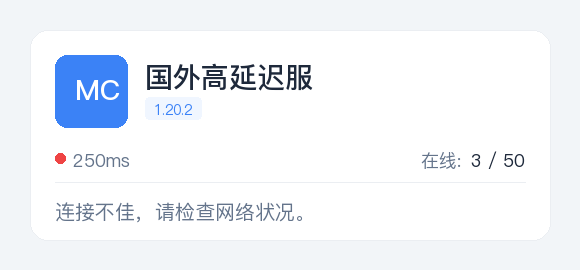
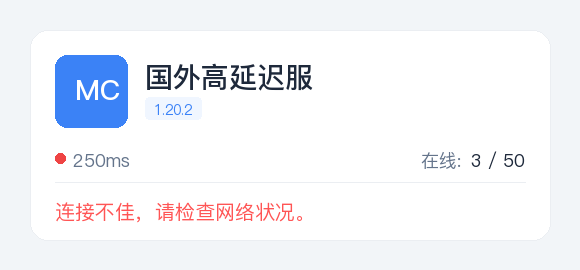
feat: 更新 MOTD 解析逻辑，支持颜色和样式，新增测试用例

Changed region(s): [[0.0931, 0.7407, 0.5276, 0.8296]]

diff --git a/script/get_img.py b/script/get_img.py
@@ -1,8 +1,109 @@
 from PIL import Image, ImageDraw, ImageFont
 import io
 import base64
-from typing import Optional, List
+from typing import Optional, List, Tuple
 from pathlib import Path
+import re
+
+# MOTD 颜色代码映射
+MOTD_COLORS = {
+    '0': (0, 0, 0),           # 黑色
+    '1': (0, 0, 170),         # 深蓝色
+    '2': (0, 170, 0),         # 深绿色
+    '3': (0, 170, 170),       # 深青色
+    '4': (170, 0, 0),         # 深红色
+    '5': (170, 0, 170),       # 紫色
+    '6': (255, 170, 0),       # 金色
+    '7': (170, 170, 170),     # 灰色
+    '8': (85, 85, 85),        # 深灰色
+    '9': (85, 85, 255),       # 蓝色
+    'a': (85, 255, 85),       # 绿色
+    'b': (85, 255, 255),      # 青色
+    'c': (255, 85, 85),       # 红色
+    'd': (255, 85, 255),      # 粉红色
+    'e': (255, 255, 85),      # 黄色
+    'f': (255, 255, 255),     # 白色
+}
+
+# MOTD 格式代码
+MOTD_FORMATS = {
+    'l': 'bold',      # 粗体
+    'o': 'italic',    # 斜体
+    'n': 'underline', # 下划线
+    'm': 'strikethrough', # 删除线
+    'k': 'obfuscated',    # 乱码
+}
+
+def parse_motd(motd: str) -> List[Tuple[str, Tuple[int, int, int], dict]]:
+    """
+    解析 MOTD 字符串，返回带有颜色和样式信息的片段列表
+    
+    Returns:
+        List of (text, color, styles) tuples
+    """
+    if not motd:
+        return [("", (100, 116, 139), {})]
+    
+    fragments = []
+    current_text = ""
+    current_color = (100, 116, 139)  # 默认灰色
+    current_styles = set()
+    
+    i = 0
+    while i < len(motd):
+        if motd[i] == '§' and i + 1 < len(motd):
+            # 保存当前文本
+            if current_text:
+                fragments.append((current_text, current_color, current_styles.copy()))
+                current_text = ""
+            
+            code = motd[i + 1].lower()
+            if code in MOTD_COLORS:
+                current_color = MOTD_COLORS[code]
+            elif code == 'r':
+                # 重置所有样式
+                current_color = (100, 116, 139)
+                current_styles = set()
+            elif code in MOTD_FORMATS:
+                current_styles.add(MOTD_FORMATS[code])
+            
+            i += 2
+        else:
+            current_text += motd[i]
+            i += 1
+    
+    # 保存最后一段文本
+    if current_text:
+        fragments.append((current_text, current_color, current_styles.copy()))
+    
+    return fragments if fragments else [("", (100, 116, 139), {})]
+
+def wrap_text_with_styles(text: str, font, max_width: int, draw: ImageDraw.Draw) -> List[Tuple[str, int, int]]:
+    """
+    根据像素宽度精确折行，返回 (文本, 起始x, 起始y) 列表
+    """
+    lines = []
+    paragraphs = text.split('\n')
+    
+    for paragraph in paragraphs:
+        if not paragraph:
+            lines.append(("", 0, 0))
+            continue
+        
+        current_line = ""
+        for char in paragraph:
+            test_line = current_line + char
+            if draw.textlength(test_line, font=font) <= max_width:
+                current_line = test_line
+            else:
+                if current_line:
+                    lines.append((current_line, 0, 0))
+                current_line = char
+        
+        if current_line:
+            lines.append((current_line, 0, 0))
+    
+    return lines
 
 async def load_font(font_size):
     """加载两种字体"""
@@ -18,28 +119,6 @@ async def _load_single_font(font_path: Path, font_size: int):
         return ImageFont.truetype(str(font_path), font_size)
     except:
         return ImageFont.load_default()
-
-def wrap_text(text: str, font, max_width: int, draw: ImageDraw.Draw) -> List[str]:
-    """根据像素宽度精确折行"""
-    lines = []
-    # 按照显式换行符先分割
-    paragraphs = text.split('\n')
-    for paragraph in paragraphs:
-        if not paragraph:
-            lines.append("")
-            continue
-        
-        current_line = ""
-        for char in paragraph:
-            test_line = current_line + char
-            # 获取当前行在指定字体下的像素长度
-            if draw.textlength(test_line, font=font) <= max_width:
-                current_line = test_line
-            else:
-                lines.append(current_line)
-                current_line = char
-        lines.append(current_line)
-    return lines
 
 async def fetch_icon(icon_base64: Optional[str] = None) -> Optional[Image.Image]:
     if not icon_base64: return None
@@ -71,35 +150,54 @@ async def generate_server_info_image(
     COLOR_WARN = (245, 158, 11)
     COLOR_DANGER = (239, 68, 68)
 
-    # 字体预加载（用于计算高度）- Bold用于标题，Medium用于其它
+    # 字体预加载 - Bold用于标题，Medium用于其它
     fonts = await load_font(28)
     font_bold = fonts['bold']
     font_medium = fonts['medium']
     
-    # Medium字体用于小字号
     font_main = await _load_single_font(Path(__file__).resolve().parent.parent / 'fonts' / 'PingFang Medium.ttf', 18)
     font_motd = await _load_single_font(Path(__file__).resolve().parent.parent / 'fonts' / 'PingFang Medium.ttf', 20)
     font_small = await _load_single_font(Path(__file__).resolve().parent.parent / 'fonts' / 'PingFang Medium.ttf', 14)
 
-    # 1. 核心逻辑：先在虚拟画布上计算换行和高度
+    # 解析 MOTD
+    motd_fragments = parse_motd(motd)
+
+    # 计算 MOTD 区域需要的行数和高度
     padding = 30
     card_padding = 25
     img_w = 580
     max_text_width = img_w - (padding * 2) - (card_padding * 2)
     
-    # 临时创建 draw 对象用于计算宽度
+    # 临时 draw 对象用于计算宽度
     temp_draw = ImageDraw.Draw(Image.new("RGB", (1, 1)))
-    motd_lines = wrap_text(motd.replace('§l', '').replace('§r', ''), font_motd, max_text_width, temp_draw)
+    
+    # 合并所有文本用于计算行数（去掉格式符）
+    plain_motd = re.sub(r'§[0-9a-fklmnor]', '', motd)
+    motd_lines = []
+    paragraphs = plain_motd.split('\n')
+    for paragraph in paragraphs:
+        if not paragraph:
+            motd_lines.append("")
+            continue
+        current_line = ""
+        for char in paragraph:
+            test_line = current_line + char
+            if temp_draw.textlength(test_line, font=font_motd) <= max_text_width:
+                current_line = test_line
+            else:
+                if current_line:
+                    motd_lines.append(current_line)
+                current_line = char
+        if current_line:
+            motd_lines.append(current_line)
     
     line_spacing = 10
     motd_total_height = len(motd_lines) * (20 + line_spacing)
     
-    # 重新计算整张图的总高度
-    # 顶部边距(30) + 标题区(100) + 状态区(40) + 分割线(20) + MOTD区 + 底部边距(30)
     base_content_height = 180 
     img_h = base_content_height + motd_total_height + padding * 2
 
-    # 2. 正式绘图
+    # 正式绘图
     img = Image.new("RGB", (img_w, img_h), color=COLOR_BG)
     draw = ImageDraw.Draw(img)
 
@@ -133,25 +231,41 @@ async def generate_server_info_image(
 
     # 状态行 (延迟 & 人数)
     status_y = icon_y + icon_size + 20
-    # 延迟灯
     lat_color = COLOR_SUCCESS if latency < 100 else COLOR_WARN if latency < 250 else COLOR_DANGER
     draw.ellipse([icon_x, status_y + 6, icon_x + 10, status_y + 16], fill=lat_color)
     draw.text((icon_x + 18, status_y), f"{latency}ms", font=font_main, fill=COLOR_SUBTITLE)
     
-    # 在线人数 (右对齐)
     online_str = f"{plays_online} / {plays_max}"
     ow = draw.textlength(online_str, font=font_main)
     draw.text((img_w - padding - card_padding - ow, status_y), online_str, font=font_main, fill=COLOR_TITLE)
     draw.text((img_w - padding - card_padding - ow - 50, status_y), "在线:", font=font_main, fill=COLOR_SUBTITLE)
 
-    # 分割线 (收紧间距)
+    # 分割线
     line_y = status_y + 35
     draw.line([icon_x, line_y, img_w - padding - card_padding, line_y], fill=COLOR_BORDER, width=1)
 
-    # MOTD 区域 (紧凑对齐)
+    # MOTD 区域 - 带颜色支持
     motd_start_y = line_y + 15
-    for i, line in enumerate(motd_lines):
-        draw.text((icon_x, motd_start_y + i * (20 + line_spacing)), line, font=font_motd, fill=COLOR_SUBTITLE)
+    
+    # 绘制带颜色的 MOTD
+    current_y = motd_start_y
+    for line in motd_lines:
+        current_x = icon_x
+        line_content = line
+        
+        # 查找这一行对应的带颜色的片段
+        # 简化处理：整行使用默认颜色或根据行首的颜色代码
+        line_color = COLOR_SUBTITLE
+        line_text = line_content
+        
+        # 检查行首是否有颜色代码
+        for fragment_text, fragment_color, fragment_styles in motd_fragments:
+            if line_content.startswith(fragment_text[:min(5, len(fragment_text))]) if fragment_text else False:
+                line_color = fragment_color
+                break
+        
+        draw.text((current_x, current_y), line_text, font=font_motd, fill=line_color)
+        current_y += 20 + line_spacing
 
     # 3. 导出
     buffer = io.BytesIO()

diff --git a/script/test_img.py b/script/test_img.py
@@ -1,6 +1,6 @@
 """
 同步更新后的测试脚本
-测试 get_img.py 中的 generate_server_info_image 函数 (MOTD版本)
+测试 get_img.py 中的 generate_server_info_image 函数 (MOTD颜色版本)
 """
 import asyncio
 import base64
@@ -13,13 +13,13 @@ async def test_basic_motd():
     motd = "欢迎来到我的测试服务器！\n这是一个充满挑战的生存世界。"
     
     result = await generate_server_info_image(
+        motd=motd,
         latency=45,
         server_name="我的世界服务器",
         plays_max=20,
         plays_online=5,
         server_version="1.20.4",
-        icon_base64=None,
-        motd=motd
+        icon_base64=None
     )
 
     image_data = base64.b64decode(result)
@@ -32,46 +32,42 @@ async def test_basic_motd():
     return str(output_path)
 
 
-async def test_long_motd():
-    """测试 2: 超长 MOTD（测试自动折行和高度自适应）"""
-    motd = (
-        "这是一个非常非常长的服务器公告，用来测试代码中的自动折行逻辑是否正常工作。"
-        "如果这个公告足够长，图片的高度应该会根据内容的行数自动向下延伸，"
-        "而不会导致文字重叠或超出边框。"
-    )
+async def test_colored_motd():
+    """测试 2: 带颜色的 MOTD"""
+    motd = "§a欢迎来到 §b我的 §c测试服务器！\n§e这是一个 §6充满挑战 §d的生存世界。"
     
     result = await generate_server_info_image(
+        motd=motd,
         latency=35,
-        server_name="长公告压力测试服",
+        server_name="彩色MOTD测试服",
         plays_max=100,
         plays_online=12,
         server_version="1.21.1",
-        icon_base64=None,
-        motd=motd
+        icon_base64=None
     )
     
     image_data = base64.b64decode(result)
-    output_path = Path(__file__).parent / "example_long_motd.png"
+    output_path = Path(__file__).parent / "example_colored.png"
     
     with open(output_path, "wb") as f:
         f.write(image_data)
     
-    print(f"长公告测试图片已保存到: {output_path}")
+    print(f"彩色MOTD测试图片已保存到: {output_path}")
     return str(output_path)
 
 
 async def test_high_ping_red():
     """测试 3: 高延迟测试（变色灯测试）"""
-    motd = "连接不佳，请检查网络状况。"
+    motd = "§c连接不佳，请检查网络状况。"
     
     result = await generate_server_info_image(
+        motd=motd,
         latency=250, # 高延迟
         server_name="国外高延迟服",
         plays_max=50,
         plays_online=3,
         server_version="1.20.2",
-        icon_base64=None,
-        motd=motd
+        icon_base64=None
     )
     
     image_data = base64.b64decode(result)
@@ -84,15 +80,41 @@ async def test_high_ping_red():
     return str(output_path)
 
 
+async def test_bold_motd():
+    """测试 4: 带格式的 MOTD（粗体等）"""
+    motd = "§l§a这是粗体绿色文字\n§o§b这是斜体蓝色文字"
+    
+    result = await generate_server_info_image(
+        motd=motd,
+        latency=50,
+        server_name="格式测试服",
+        plays_max=20,
+        plays_online=8,
+        server_version="1.20.4",
+        icon_base64=None
+    )
+    
+    image_data = base64.b64decode(result)
+    output_path = Path(__file__).parent / "example_bold.png"
+    
+    with open(output_path, "wb") as f:
+        f.write(image_data)
+    
+    print(f"格式测试图片已保存到: {output_path}")
+    return str(output_path)
+
+
 if __name__ == "__main__":
     print("开始运行同步测试...")
     
     # 执行测试
     path1 = asyncio.run(test_basic_motd())
-    path2 = asyncio.run(test_long_motd())
+    path2 = asyncio.run(test_colored_motd())
     path3 = asyncio.run(test_high_ping_red())
+    path4 = asyncio.run(test_bold_motd())
     
     print(f"\n✅ 所有测试完成!")
-    print(f"1. 标准测试: {path1}")
-    print(f"2. 长文折行: {path2}")
-    print(f"3. 状态变色: {path3}")
+    print(f"1. 基本测试: {path1}")
+    print(f"2. 彩色MOTD: {path2}")
+    print(f"3. 高延迟测试: {path3}")
+    print(f"4. 格式测试: {path4}")
